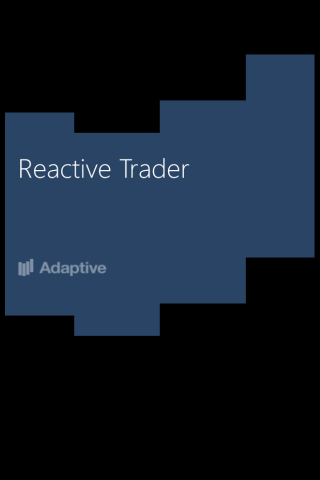
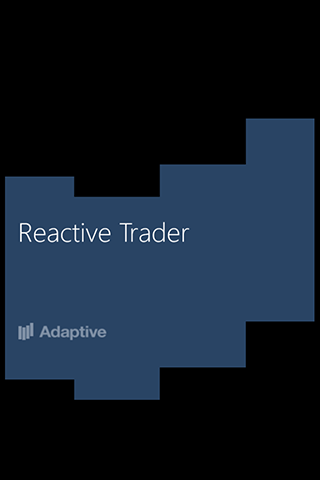
tweak start up view and assets to variable screen sizes. implement draft UI for stale price handling

Changed region(s): [[0.0, 0.0938, 1.0, 0.5312], [0.0, 0.5312, 1.0, 0.8438], [0.0312, 0.4375, 0.3438, 0.5938]]

diff --git a/src/Adaptive.ReactiveTrader.Client.iOSTab/View/Tiles/PriceTileViewCell.cs b/src/Adaptive.ReactiveTrader.Client.iOSTab/View/Tiles/PriceTileViewCell.cs
@@ -18,7 +18,7 @@ namespace Adaptive.ReactiveTrader.Client.iOSTab
 		public static readonly UINib Nib = UINib.FromName ("PriceTileViewCell", NSBundle.MainBundle);
 		public static readonly NSString Key = new NSString ("PriceTileViewCell");
 
-		private PriceTileModel _priceTileMode;
+		private PriceTileModel _priceTileModel;
 
 		public PriceTileViewCell (IntPtr handle) : base (handle)
 		{
@@ -31,7 +31,7 @@ namespace Adaptive.ReactiveTrader.Client.iOSTab
 			
 		public void UpdateFrom (PriceTileModel model)
 		{
-			_priceTileMode = model;
+			_priceTileModel = model;
 
 			this.CurrencyPair.Text = model.Symbol;
 
@@ -73,21 +73,21 @@ namespace Adaptive.ReactiveTrader.Client.iOSTab
 		partial void LeftSideButtonTouchUpInside (NSObject sender)
 		{
 			// TODO 
-			var model = _priceTileMode;
+			var model = _priceTileModel;
 			if (model != null && model.Status == PriceTileStatus.Streaming)
 				model.Bid();
 		}
 
 		partial void RightSideButtonTouchUpInside (NSObject sender)
 		{
-			var model = _priceTileMode;
+			var model = _priceTileModel;
 			if (model != null && model.Status == PriceTileStatus.Streaming)
 				model.Ask();
 		}
 
 		partial void NotionalValueChanged (NSObject sender)
 		{
-			var model = _priceTileMode;
+			var model = _priceTileModel;
 			if (model != null)
 				model.Notional = Notional.Text;
 		}

diff --git a/src/Adaptive.ReactiveTrader.Client.iOSTab/View/Prices/PriceTilesViewSource.cs b/src/Adaptive.ReactiveTrader.Client.iOSTab/View/Prices/PriceTilesViewSource.cs
@@ -25,7 +25,6 @@ namespace Adaptive.ReactiveTrader.Client.iOSTab
 
 		public override int NumberOfSections (UITableView tableView)
 		{
-			// TODO: return the actual number of sections
 			return 1;
 		}
 
@@ -53,15 +52,19 @@ namespace Adaptive.ReactiveTrader.Client.iOSTab
 				priceTileCell = tableView.DequeueReusableCell (PriceTileTradeAffirmationViewCell.Key) as PriceTileTradeAffirmationViewCell;
 				if (priceTileCell == null)
 					priceTileCell = PriceTileTradeAffirmationViewCell.Create ();
-
-
 				break;
+
 			case PriceTileStatus.Streaming:
 			case PriceTileStatus.Executing:
 				priceTileCell = tableView.DequeueReusableCell (PriceTileViewCell.Key) as PriceTileViewCell;
 				if (priceTileCell == null)
 					priceTileCell = PriceTileViewCell.Create ();
+				break;
 
+			case PriceTileStatus.Stale:
+				priceTileCell = tableView.DequeueReusableCell (PriceTileErrorViewCell.Key) as PriceTileViewCell;
+				if (priceTileCell == null)
+					priceTileCell = PriceTileErrorViewCell.Create ();
 				break;
 			}
 

diff --git a/src/Adaptive.ReactiveTrader.Client.iOSTab/PriceTileModel.cs b/src/Adaptive.ReactiveTrader.Client.iOSTab/PriceTileModel.cs
@@ -121,9 +121,13 @@ namespace Adaptive.ReactiveTrader.Client.iOSTab
 		}
 
 		void OnPrice (IPrice currentPrice)
-		{
-		
+		{		
 			if (!currentPrice.IsStale) {
+				// TODO: Discuss other statuses (Done, Executing)...
+				if (this.Status == PriceTileStatus.Stale) {
+					this.Status = PriceTileStatus.Streaming;
+				}
+
 				var bid = PriceFormatter.GetFormattedPrice (currentPrice.Bid.Rate, currentPrice.CurrencyPair.RatePrecision, currentPrice.CurrencyPair.PipsPosition);
 				var ask = PriceFormatter.GetFormattedPrice (currentPrice.Ask.Rate, currentPrice.CurrencyPair.RatePrecision, currentPrice.CurrencyPair.PipsPosition);
 
@@ -152,6 +156,12 @@ namespace Adaptive.ReactiveTrader.Client.iOSTab
 				this.NotifyOnChanged (this);
 			} else {
 				Movement = PriceMovement.None;
+
+				// TODO: Discuss other statuses (Done, Executing)...
+				if (this.Status == PriceTileStatus.Streaming) {
+					this.Status = PriceTileStatus.Stale;
+					this.NotifyOnChanged (this);
+				}
 			}
 
 			_lastPrice = currentPrice;

diff --git a/src/Adaptive.ReactiveTrader.Client.iOSTab/View/Prices/PriceTilesViewController.cs b/src/Adaptive.ReactiveTrader.Client.iOSTab/View/Prices/PriceTilesViewController.cs
@@ -18,8 +18,7 @@ namespace Adaptive.ReactiveTrader.Client.iOSTab
 		private readonly PriceTilesModel _model;
 
 		public PriceTilesViewController (IReactiveTrader reactiveTrader, IConcurrencyService concurrencyService) 
-		//		: base("PriceTilesViewController", null)
-				: base(UITableViewStyle.Grouped)
+			: base(UITableViewStyle.Plain)
 		{
 			this._concurrencyService = concurrencyService;
 			this._reactiveTrader = reactiveTrader;
@@ -41,6 +40,7 @@ namespace Adaptive.ReactiveTrader.Client.iOSTab
 			_model.Initialise ();
 
 		}
+
 		private void OnItemChanged(PriceTileModel item) {
 
 			if (IsViewLoaded) {
@@ -67,7 +67,10 @@ namespace Adaptive.ReactiveTrader.Client.iOSTab
 
 			// Register the TableView's data source
 			TableView.Source = new PriceTilesViewSource (_model);
- 
+			//			TableView.Delegate = new PriceTilesViewDelegate ();
+
+			// TODO: Obtain Adaptive branding RGB value to use here.
+			TableView.BackgroundColor = UIColor.FromRGB (10, 15, 30);
 		}
 	}
 }

diff --git a/src/Adaptive.ReactiveTrader.Client.iOSTab/View/Tiles/PriceTileErrorViewCell.cs b/src/Adaptive.ReactiveTrader.Client.iOSTab/View/Tiles/PriceTileErrorViewCell.cs
@@ -1,0 +1,34 @@
+using System;
+using System.Drawing;
+using MonoTouch.Foundation;
+using MonoTouch.UIKit;
+
+namespace Adaptive.ReactiveTrader.Client.iOSTab.Tiles
+{
+	public partial class PriceTileErrorViewCell : UITableViewCell, IPriceTileCell
+	{
+		public static readonly UINib Nib = UINib.FromName ("PriceTileErrorViewCell", NSBundle.MainBundle);
+		public static readonly NSString Key = new NSString ("PriceTileErrorViewCell");
+
+		private PriceTileModel _priceTileModel;
+
+		public PriceTileErrorViewCell (IntPtr handle) : base (handle)
+		{
+		}
+
+		public static PriceTileErrorViewCell Create ()
+		{
+			return (PriceTileErrorViewCell)Nib.Instantiate (null, null) [0];
+		}
+
+		public void UpdateFrom (PriceTileModel model)
+		{
+			_priceTileModel = model;
+
+			this.CurrencyPair.Text = model.Symbol;
+
+			model.Rendered ();
+		}
+	}
+}
+

diff --git a/src/Adaptive.ReactiveTrader.Client.iOSTab/View/Trades/TradesViewController.cs b/src/Adaptive.ReactiveTrader.Client.iOSTab/View/Trades/TradesViewController.cs
@@ -16,7 +16,8 @@ namespace Adaptive.ReactiveTrader.Client.iOSTab.View
 		private readonly IConcurrencyService _concurrencyService;
 		private readonly TradeTilesModel _model;
 
-		public TradesViewController (IReactiveTrader reactiveTrader, IConcurrencyService concurrencyService) : base (UITableViewStyle.Plain)
+		public TradesViewController (IReactiveTrader reactiveTrader, IConcurrencyService concurrencyService)
+			: base (UITableViewStyle.Plain)
 		{
 			_reactiveTrader = reactiveTrader;
 			_concurrencyService = concurrencyService;
@@ -49,6 +50,9 @@ namespace Adaptive.ReactiveTrader.Client.iOSTab.View
 			base.ViewDidLoad ();
 			
 			TableView.Source = new TradesViewSource (_model);
+
+			// TODO: Obtain Adaptive branding RGB value to use here.
+			TableView.BackgroundColor = UIColor.FromRGB (10, 15, 30);
 		}
 	}
 }

diff --git a/src/Adaptive.ReactiveTrader.Client.iOSTab/AppDelegate.cs b/src/Adaptive.ReactiveTrader.Client.iOSTab/AppDelegate.cs
@@ -47,6 +47,8 @@ namespace Adaptive.ReactiveTrader.Client.iOSTab
 			#endif
 
 			_reactiveTrader = new Adaptive.ReactiveTrader.Client.Domain.ReactiveTrader ();
+
+			// TODO: might we need to defer initialisation, in case status moves to Connected before we subscribe on ConnectionStatus?
 			_reactiveTrader.Initialize ("iOS-" + Process.GetCurrentProcess ().Id, new [] { "https://reactivetrader.azurewebsites.net/signalr" }, logging);
 
 			var tradesViewController = new TradesViewController (_reactiveTrader, cs);
@@ -74,7 +76,7 @@ namespace Adaptive.ReactiveTrader.Client.iOSTab
 
 			// make the window visible
 			window.MakeKeyAndVisible ();
-			
+
 			return true;
 		}
 	}

diff --git a/src/Adaptive.ReactiveTrader.Client.iOSTab/View/Tiles/PriceTileErrorViewCell.designer.cs b/src/Adaptive.ReactiveTrader.Client.iOSTab/View/Tiles/PriceTileErrorViewCell.designer.cs
@@ -1,0 +1,26 @@
+// WARNING
+//
+// This file has been generated automatically by Xamarin Studio to store outlets and
+// actions made in the UI designer. If it is removed, they will be lost.
+// Manual changes to this file may not be handled correctly.
+//
+using MonoTouch.Foundation;
+using System.CodeDom.Compiler;
+
+namespace Adaptive.ReactiveTrader.Client.iOSTab.Tiles
+{
+	[Register ("PriceTileErrorViewCell")]
+	partial class PriceTileErrorViewCell
+	{
+		[Outlet]
+		MonoTouch.UIKit.UILabel CurrencyPair { get; set; }
+		
+		void ReleaseDesignerOutlets ()
+		{
+			if (CurrencyPair != null) {
+				CurrencyPair.Dispose ();
+				CurrencyPair = null;
+			}
+		}
+	}
+}

diff --git a/src/Adaptive.ReactiveTrader.Client.iOSTab/View/Prices/PriceTilesViewDelegate.cs b/src/Adaptive.ReactiveTrader.Client.iOSTab/View/Prices/PriceTilesViewDelegate.cs
@@ -1,0 +1,14 @@
+using System;
+using MonoTouch.Foundation;
+using MonoTouch.UIKit;
+
+namespace Adaptive.ReactiveTrader.Client.iOSTab
+{
+	public class PriceTilesViewDelegate : UITableViewDelegate
+	{
+		public PriceTilesViewDelegate ()
+		{
+		}
+	}
+}
+
